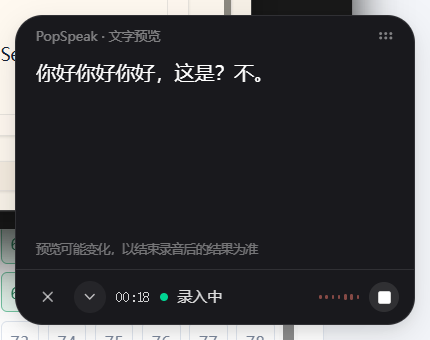
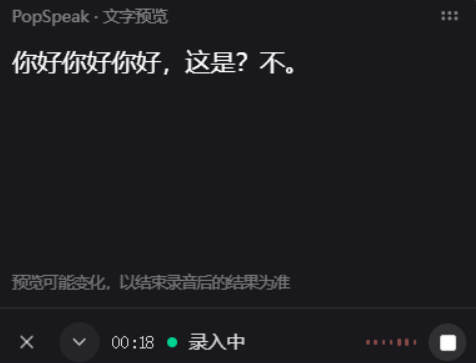
Show focused POP preview screenshot

diff --git a/site/index.html b/site/index.html
@@ -239,7 +239,7 @@
           </ul>
         </div>
         <figure class="product-shot product-shot-editor" data-reveal>
-          <img src="./assets/popspeak-preview.png" alt="PopSpeak 录音中的本地近似文字预览" width="430" height="340" loading="lazy" />
+          <img src="./assets/popspeak-preview.png" alt="PopSpeak 录音中的本地近似文字预览" width="476" height="363" loading="lazy" />
           <figcaption>录音中预览 · 最终结果随后校正</figcaption>
         </figure>
       </section>

diff --git a/README.md b/README.md
@@ -8,7 +8,7 @@
 
 ![PopSpeak 录音时的 POP 文字预览窗](site/assets/popspeak-preview.png)
 
-*录音时先看近似预览；结束后由所选识别模型生成最终文本。上图为产品界面示意。*
+*实机录音中的 POP 文字预览。预览允许修订；结束后由所选识别模型生成最终文本。*
 
 ## 为什么做 PopSpeak
 
